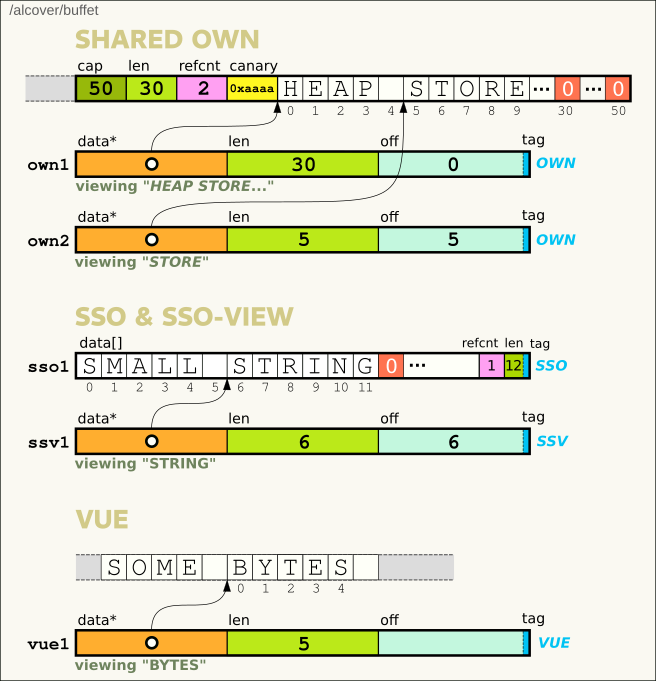
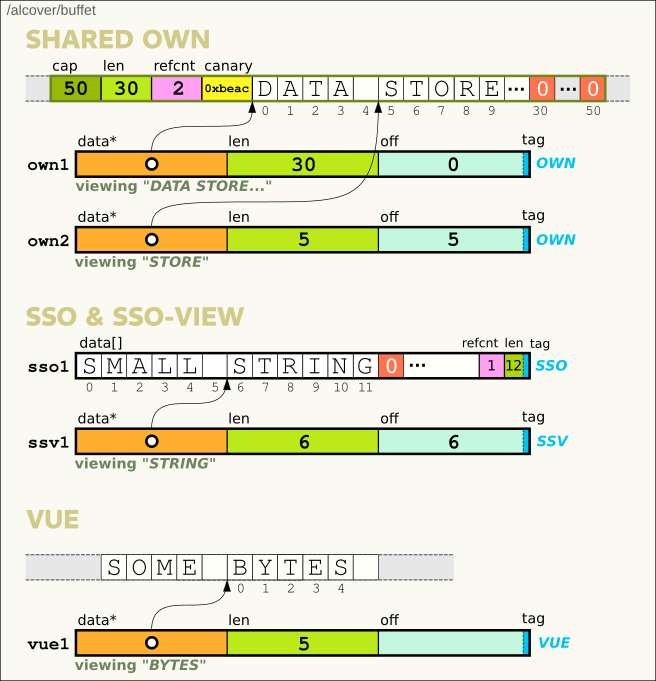
equal()

diff --git a/src/check.c b/src/check.c
@@ -593,6 +593,50 @@ void free_()
 }
 
 //=============================================================================
+
+#define uequal_memop(op, lena, lenb, exp) { \
+    Buffet a = bft_##op(alpha, lena); \
+    Buffet b = bft_##op(alpha, lenb); \
+    assert_int(bft_equal(&a, &b), exp); \
+    bft_free(&a); \
+    bft_free(&b); \
+}
+
+#define uequal_view(len, exp) { \
+    Buffet buf = bft_memcopy(alpha, len); \
+    Buffet view = bft_view(&buf, 0, len); \
+    assert_int(bft_equal(&view, &buf), exp); \
+    bft_free(&view); \
+    bft_free(&buf); \
+}
+
+void equal()
+{
+    uequal_memop(memcopy, 0, 0, true);
+    uequal_memop(memcopy, 1, 1, true);
+    uequal_memop(memcopy, 8, 8, true);
+    uequal_memop(memcopy, 32, 32, true);
+    uequal_memop(memcopy, 1, 2, false);
+    uequal_memop(memcopy, 8, 9, false);
+    uequal_memop(memcopy, 32, 33, false); 
+
+    uequal_memop(memview, 0, 0, true);
+    uequal_memop(memview, 1, 1, true);
+    uequal_memop(memview, 8, 8, true);
+    uequal_memop(memview, 32, 32, true);
+    uequal_memop(memview, 1, 2, false);
+    uequal_memop(memview, 8, 9, false);
+    uequal_memop(memview, 32, 33, false);
+
+    uequal_view(0, true);
+    uequal_view(1, true);
+    uequal_view(8, true);
+    uequal_view(32, true);
+
+    // todo other combins
+}
+
+//=============================================================================
 void zero()
 {
     Buffet buf = BUFFET_ZERO;
@@ -633,6 +677,7 @@ int main()
     run(append);
     run(splitjoin);
     run(free_);
+    run(equal);
     LOG(GREEN "unit tests OK" RESET);
 
     return 0;

diff --git a/src/ex/schema.c b/src/ex/schema.c
@@ -6,10 +6,9 @@ int main() {
 
     char large[] = "DATA STORE IS HEAP ALLOCATION.";
 
+    // own1 will own a store holding a copy of `large`
     Buffet own1 = bft_memcopy(large, sizeof(large)-1);
-    // own1 points into a store holding a copy of `large`
     bft_dbg(&own1);
-
     // View "STORE" in own1
     Buffet own2 = bft_view(&own1, 5, 5);
     // Now own1 and own2 share the store, whose refcount is 2
@@ -21,17 +20,16 @@ int main() {
 
     Buffet sso1 = bft_memcopy(small, sizeof(small)-1);
     bft_dbg(&sso1);
-
     // View "STRING" in sso1
     Buffet ssv1 = bft_view(&sso1, 6, 6);
     bft_dbg(&ssv1);
 
 // VUE =========================================
 
-    char data[] = "SOME BYTES";
+    char any[] = "SOME BYTES";
 
-    // View "BYTES" in `data`
-    Buffet vue1 = bft_memview(data+5, 5);
+    // View "BYTES" in `any`
+    Buffet vue1 = bft_memview(any+5, 5);
     bft_dbg(&vue1);
 
     return 0;

diff --git a/src/buffet.c b/src/buffet.c
@@ -773,6 +773,25 @@ bft_join (const Buffet *parts, int cnt, const char* sep, size_t seplen)
 
 
 /**
+ * Compare two buffets' data. Lengths are compared first.
+ * 
+ * @param[in] a the first Buffet
+ * @param[in] b the second Buffet
+ * @return boolean true if a and b have the same data
+ */
+bool
+bft_equal (const Buffet *a, const Buffet *b)
+{
+    Tag taga = TAG(a);
+    Tag tagb = TAG(b);
+    size_t lena = getlen(a, taga);
+    size_t lenb = getlen(b, tagb);
+    // optim: compare ptrs first ?
+    return (lena==lenb) && !strcmp(getdata(a,taga), getdata(b,tagb));
+}
+
+
+/**
  * Get a Buffet data as a null-terminated C string of length buf.len.
  * 
  * @param[in] buf the Buffet source

diff --git a/src/buffet.h b/src/buffet.h
@@ -71,6 +71,7 @@ Buffet* bft_split (const char* src, size_t srclen,
                    const char* sep, size_t seplen, int *outcnt);
 Buffet* bft_splitstr (const char *src, const char *sep, int *outcnt);
 
+bool    bft_equal (const Buffet *a, const Buffet *b);
 size_t  bft_cap (const Buffet *buf);
 size_t  bft_len (const Buffet *buf);
 const char* bft_data (const Buffet *buf);

diff --git a/README.md b/README.md
@@ -74,10 +74,9 @@ int main() {
 
     char large[] = "DATA STORE IS HEAP ALLOCATION.";
 
+    // own1 will own a store holding a copy of `large`
     Buffet own1 = bft_memcopy(large, sizeof(large)-1);
-    // own1 points into a store holding a copy of `large`
     bft_dbg(&own1);
-
     // View "STORE" in own1
     Buffet own2 = bft_view(&own1, 5, 5);
     // Now own1 and own2 share the store, whose refcount is 2
@@ -89,17 +88,16 @@ int main() {
 
     Buffet sso1 = bft_memcopy(small, sizeof(small)-1);
     bft_dbg(&sso1);
-
     // View "STRING" in sso1
     Buffet ssv1 = bft_view(&sso1, 6, 6);
     bft_dbg(&ssv1);
 
 // VUE =========================================
 
-    char data[] = "SOME BYTES";
+    char any[] = "SOME BYTES";
 
-    // View "BYTES" in `data`
-    Buffet vue1 = bft_memview(data+5, 5);
+    // View "BYTES" in `any`
+    Buffet vue1 = bft_memview(any+5, 5);
     bft_dbg(&vue1);
 
     return 0;
@@ -127,7 +125,7 @@ While extensive, unit tests may not yet cover all cases.
 `make && make bench` (requires *libbenchmark-dev*)  
 
 NB: The lib is not much optimized and the bench maybe amateurish.  
-On a weak Thinkpad :  
+On a weak Core i3 :  
 <pre>
 MEMVIEW_cpp/8                1 ns          1 ns 1000000000
 MEMVIEW_buffet/8             7 ns          7 ns  103101477
@@ -193,17 +191,7 @@ bft_free(alias) // OK. Possible warning "Bad canary. Double free ?"
 
 ```
 
-To achieve this, heap stores are controlled by a header :
-
-    struct Store {
-        cap
-        len
-        refcnt
-        canary
-        data[]
-    }
-
-On operations like *view*, *append* or *free*, we check the store's canary and refcount.    
+To achieve this, on operations like *view*, *append* or *free*, we check the store's canary and refcount.    
 If they're wrong, the operation aborts and possibly returns an empty buffet.  
 
 See *src/check.c* unit-tests and warnings output.
@@ -367,14 +355,14 @@ Buffet alias = vue; //ok
 
 Discards *buf*.  
 
-- aborts if buf is an SSO with views
-- otherwise, buf is zeroed-out, making it an empty SSO.
+- aborts if buf is an SSO with views.
+- otherwise, buf is zeroed into an empty SSO.
 - if buf was a view, its target refcount is decremented.
 - if buf was the last view on a store, the store is released.  
 
 Security:
-- being zeroed, a double-free has no ill consequence
-- in case of aliasing (not recommended), the store checks on an OWN prevent use after free
+- the zeroing makes double-free harmless.
+- the only problematic use-after-free would be of a OWN alias (not recommended), but the store management prevents stale memory access.
 
 ```C
 char text[] = "Le grand orchestre de Patato Valdez";
@@ -478,6 +466,12 @@ bft_dbg(&back);
 // SSO 8 'Split me'
 ```
 
+### bft_equal
+
+    bool bft_equal (const Buffet *a, const Buffet *b)
+
+Compare two buffets' data. Lengths are compared first.
+
 ### bft_cap  
 
     size_t bft_cap (Buffet *buf)
@@ -501,14 +495,14 @@ To ensure null-termination at `buf.len`, use *bft_cstr*.
 
     const char* bft_cstr (const Buffet *buf, bool *mustfree)
 
-Get current data as a null-terminated C string of length `buf.len`.  
-If needed (when *buf* is a view), the slice is copied into a fresh C string that must be freed if *mustfree* is set.
+Get current data as a null-terminated C string of max length `buf.len`.  
+If needed (when *buf* is a view), the data is copied into a new C string that must be freed if *mustfree* is set.
 
 ### bft_export
 
     char* bft_export (const Buffet *buf)
 
- Copies data up to `buf.len` into a fresh C string that must be freed.
+ Copies data up to `buf.len` into a new C string that must be freed.
 
 ### bft_print
 
@@ -543,6 +537,5 @@ Add #define ENABLE_MEMCHECKS
 
 #### API
 
-- equal()
 - write(), sprintf()
 - resize()

diff --git a/src/README.tpl.md b/src/README.tpl.md
@@ -91,7 +91,7 @@ While extensive, unit tests may not yet cover all cases.
 `make && make bench` (requires *libbenchmark-dev*)  
 
 NB: The lib is not much optimized and the bench maybe amateurish.  
-On a weak Thinkpad :  
+On a weak Core i3 :  
 <pre>
 MEMVIEW_cpp/8                1 ns          1 ns 1000000000
 MEMVIEW_buffet/8             7 ns          7 ns  103101477
@@ -157,17 +157,7 @@ bft_free(alias) // OK. Possible warning "Bad canary. Double free ?"
 
 ```
 
-To achieve this, heap stores are controlled by a header :
-
-    struct Store {
-        cap
-        len
-        refcnt
-        canary
-        data[]
-    }
-
-On operations like *view*, *append* or *free*, we check the store's canary and refcount.    
+To achieve this, on operations like *view*, *append* or *free*, we check the store's canary and refcount.    
 If they're wrong, the operation aborts and possibly returns an empty buffet.  
 
 See *src/check.c* unit-tests and warnings output.
@@ -301,14 +291,14 @@ Buffet alias = vue; //ok
 
 Discards *buf*.  
 
-- aborts if buf is an SSO with views
-- otherwise, buf is zeroed-out, making it an empty SSO.
+- aborts if buf is an SSO with views.
+- otherwise, buf is zeroed into an empty SSO.
 - if buf was a view, its target refcount is decremented.
 - if buf was the last view on a store, the store is released.  
 
 Security:
-- being zeroed, a double-free has no ill consequence
-- in case of aliasing (not recommended), the store checks on an OWN prevent use after free
+- the zeroing makes double-free harmless.
+- the only problematic use-after-free would be of a OWN alias (not recommended), but the store management prevents stale memory access.
 
 ```C
 char text[] = "Le grand orchestre de Patato Valdez";
@@ -412,6 +402,12 @@ bft_dbg(&back);
 // SSO 8 'Split me'
 ```
 
+### bft_equal
+
+    bool bft_equal (const Buffet *a, const Buffet *b)
+
+Compare two buffets' data. Lengths are compared first.
+
 ### bft_cap  
 
     size_t bft_cap (Buffet *buf)
@@ -435,14 +431,14 @@ To ensure null-termination at `buf.len`, use *bft_cstr*.
 
     const char* bft_cstr (const Buffet *buf, bool *mustfree)
 
-Get current data as a null-terminated C string of length `buf.len`.  
-If needed (when *buf* is a view), the slice is copied into a fresh C string that must be freed if *mustfree* is set.
+Get current data as a null-terminated C string of max length `buf.len`.  
+If needed (when *buf* is a view), the data is copied into a new C string that must be freed if *mustfree* is set.
 
 ### bft_export
 
     char* bft_export (const Buffet *buf)
 
- Copies data up to `buf.len` into a fresh C string that must be freed.
+ Copies data up to `buf.len` into a new C string that must be freed.
 
 ### bft_print
 
@@ -477,6 +473,5 @@ Add #define ENABLE_MEMCHECKS
 
 #### API
 
-- equal()
 - write(), sprintf()
 - resize()
